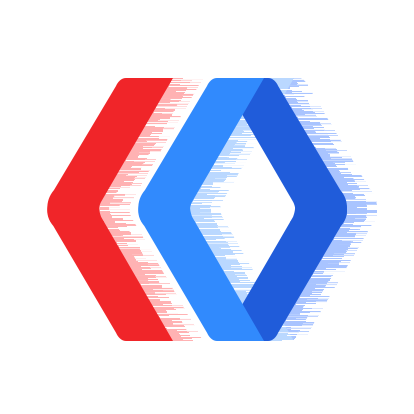
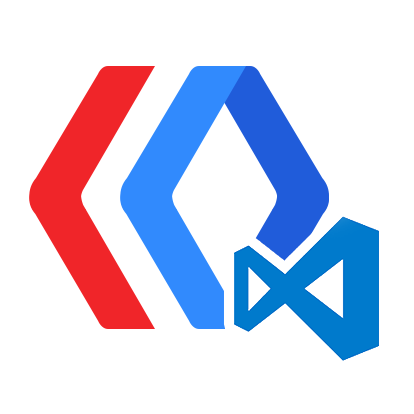
重构文件结构；更换icon

Changed region(s): [[0.058, 0.1449, 0.9275, 0.8696]]

diff --git a/src/typeDefine.js b/src/typeDefine.js
@@ -7,16 +7,15 @@ const path = require('path');
 const fs = require('fs');
 const vscode = require('vscode');
 
-const typingsSrcFile = path.join(__dirname, '../typings/swan.d.ts');
-const typingsDestDir = path.join(vscode.workspace.rootPath, 'typings');
-const typingsDestFile = path.join(typingsDestDir, 'swan.d.ts');
+function copyFile(typingsDestDir) {
+    let typingsSrcFile = path.join(__dirname, '../typings/swan.d.ts');
+    let typingsDestFile = path.join(typingsDestDir, 'swan.d.ts');
 
-
-function copyFile() {
     return fs.readFile(typingsSrcFile, (err, data) => {
         if (err) {
             vscode.window.showErrorMessage(`读取swan.d.ts命名空间文件失败: ${err}`);
         }
+
         fs.writeFile(typingsDestFile, data, err => {
             if (err) {
                 vscode.window.showErrorMessage(`复制swan.d.ts命名空间文件失败: ${err}`);
@@ -26,16 +25,17 @@ function copyFile() {
 }
 
 function createTypeDefinition() {
+    let typingsDestDir = path.join(vscode.workspace.rootPath, 'typings');
     if (fs.existsSync(typingsDestDir)) {
-        return copyFile();
+        return copyFile(typingsDestDir);
     }
+
     return fs.mkdir(typingsDestDir, err => {
         if (err) {
             vscode.window.showErrorMessage(`创建typinds文件夹失败: ${err}`);
         }
-        return copyFile();
+        return copyFile(typingsDestDir);
     });
 }
 
 module.exports = createTypeDefinition;
-

diff --git a/src/extension.js b/src/extension.js
@@ -3,33 +3,10 @@
  * @author zhuyeqing
  */
 
-const vscode = require('vscode');
-const path = require('path');
-const fs = require('fs');
-const jsonFilePath = path.join(vscode.workspace.rootPath, 'project.swan.json');
-const createTypeDefinition = require('./typeDefinition');
-const generateReference = require('./referenceGeneration');
+const apiSuggest = require('./apiSuggest');
 
+exports.activate = () => {
+    apiSuggest();
+};
 
-// 激活插件(activated)
-function activate() {
-    // 判断project.swan.json是否存在
-    fs.open(jsonFilePath, 'r', err => {
-        if (err) {
-            vscode.window.showWarningMessage('未找到project.swan.json文件，API智能提示功能将不生效');
-            return;
-        }
-        Promise.all([
-            // 安装swan.d.ts
-            createTypeDefinition(),
-            // 创建swan.d.ts启动方式
-            generateReference()
-        ]);
-    });
-}
-exports.activate = activate;
-
-// 停用插件(deactivated)
-function deactivate() {
-}
-exports.deactivate = deactivate;
+exports.deactivate = () => {};

diff --git a/src/apiSuggest.js b/src/apiSuggest.js
@@ -1,0 +1,30 @@
+/**
+ * @file api suggester
+ * @author varsha
+ */
+
+const path = require('path');
+const fs = require('fs');
+const vscode = require('vscode');
+
+const typeDefine = require('./typeDefine');
+const referenceGenerate = require('./referenceGenerate');
+
+module.exports = () => {
+    // 工作目录读取失败时，不支持 api 提示
+    if (!vscode.workspace.rootPath) {
+        return Promise.reject();
+    }
+    // 工作根目录下没有 project.swan.json 认为不是小程序项目，不支持 api 提示
+    let jsonFilePath = path.join(vscode.workspace.rootPath, 'project.swan.json');
+    if (!fs.existsSync(jsonFilePath)) {
+        return Promise.reject();
+    }
+
+    return Promise.all([
+        // 安装swan.d.ts
+        typeDefine(),
+        // 创建swan.d.ts启动方式
+        referenceGenerate()
+    ]);
+};
